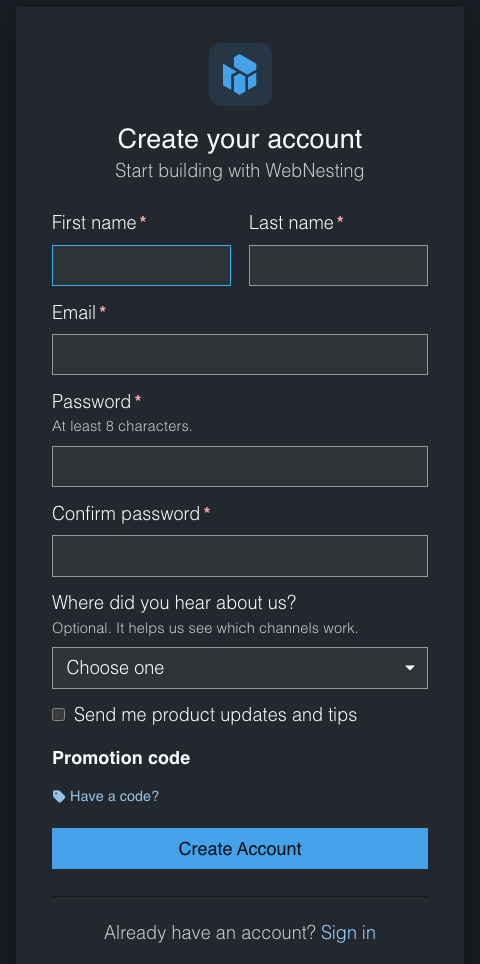
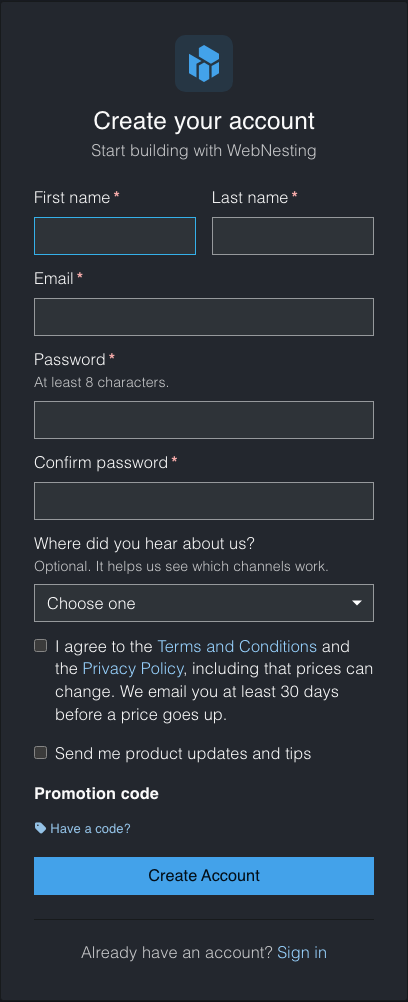
docs(account): Creating Your Account names the required Terms box
The sign-up form now has a required "I agree to the Terms and Conditions and
the Privacy Policy" box that says prices can change, with an email at least 30
days before a rise. The steps describe it and its refusal message, and the
form picture is retaken from the live page.

diff --git a/account/creating-your-account.md b/account/creating-your-account.md
@@ -1,6 +1,6 @@
 # Creating Your Account
 
-**Last verified:** 2026-11-07 10:10am
+**Last verified:** 2026-11-13 10:55am
 
 Welcome to WebNesting! Getting started takes just a few minutes. This guide walks you through creating your account and getting ready to build your first website.
 
@@ -15,7 +15,7 @@ Welcome to WebNesting! Getting started takes just a few minutes. This guide walk
 
 3. Fill in the registration form:
 
-   ![The empty Create your account form with its name, email and password fields, the sign-up choices and the Create Account button](../images/account/creating-your-account-sign-up-form.png)
+   ![The empty Create your account form with its name, email and password fields, the Terms checkbox, the other sign-up choices and the Create Account button](../images/account/creating-your-account-sign-up-form.png)
 
    - **First name** -- Your first name.
    - **Last name** -- Your last name.
@@ -23,9 +23,10 @@ Welcome to WebNesting! Getting started takes just a few minutes. This guide walk
    - **Password** -- Choose a password of at least 8 characters. A note under the field tells you how many characters are left and how to make it stronger with numbers, capitals or symbols.
    - **Confirm password** -- Enter the same password again.
    - **Where did you hear about us?** -- Optional. It helps us see which channels work. The list starts with **Choose one**. The choices are **A web search**, **Social media**, **A friend or colleague**, **An article, blog or newsletter**, **A video or podcast**, **An advertisement**, **An event or community** and **Somewhere else**. If you pick **Somewhere else**, a **Where was it?** field opens. Type your answer there (up to 200 characters). You can leave all of this empty.
-4. Optionally, check **Send me product updates and tips** if you'd like occasional emails about new features. It's unchecked by default, and you can change your mind anytime from your account portal.
-5. If you have a promotion code for new accounts, select **Have a code?** under **Promotion code**. Type the code and select **Check code**. You see what the code gives you. To use another code, select **Use a different code**.
-6. Select **Create Account**.
+4. Check **I agree to the Terms and Conditions and the Privacy Policy**. You can't create an account without it. Select **Terms and Conditions** or **Privacy Policy** to read either one in a new tab. When you agree, you accept that our prices can change. We email you at least 30 days before a price goes up. If you leave the box empty, the form says "Please agree to the Terms and Conditions to create your account."
+5. Optionally, check **Send me product updates and tips** if you'd like occasional emails about new features. It's unchecked by default, and you can change your mind anytime from your account portal.
+6. If you have a promotion code for new accounts, select **Have a code?** under **Promotion code**. Type the code and select **Check code**. You see what the code gives you. To use another code, select **Use a different code**.
+7. Select **Create Account**.
 
 > **Note:** If the email address you entered is already registered, you will see a message letting you know an account already exists. You can sign in instead or use a different email.
 
